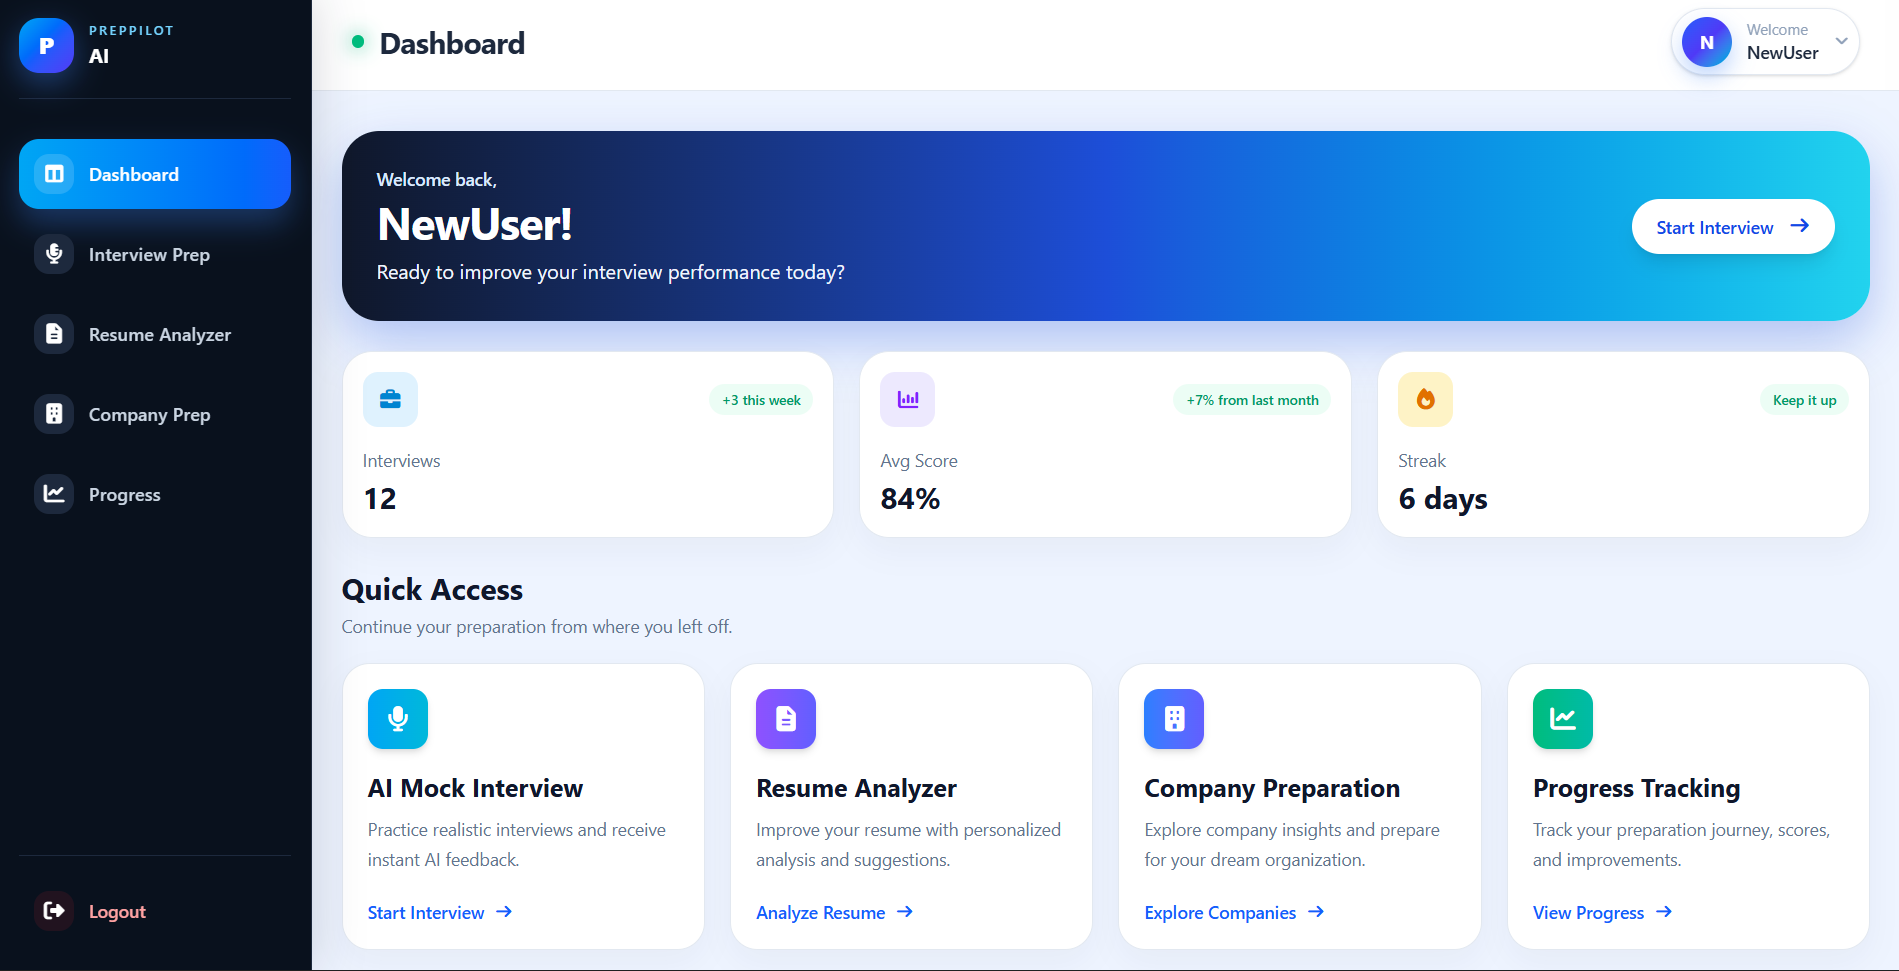
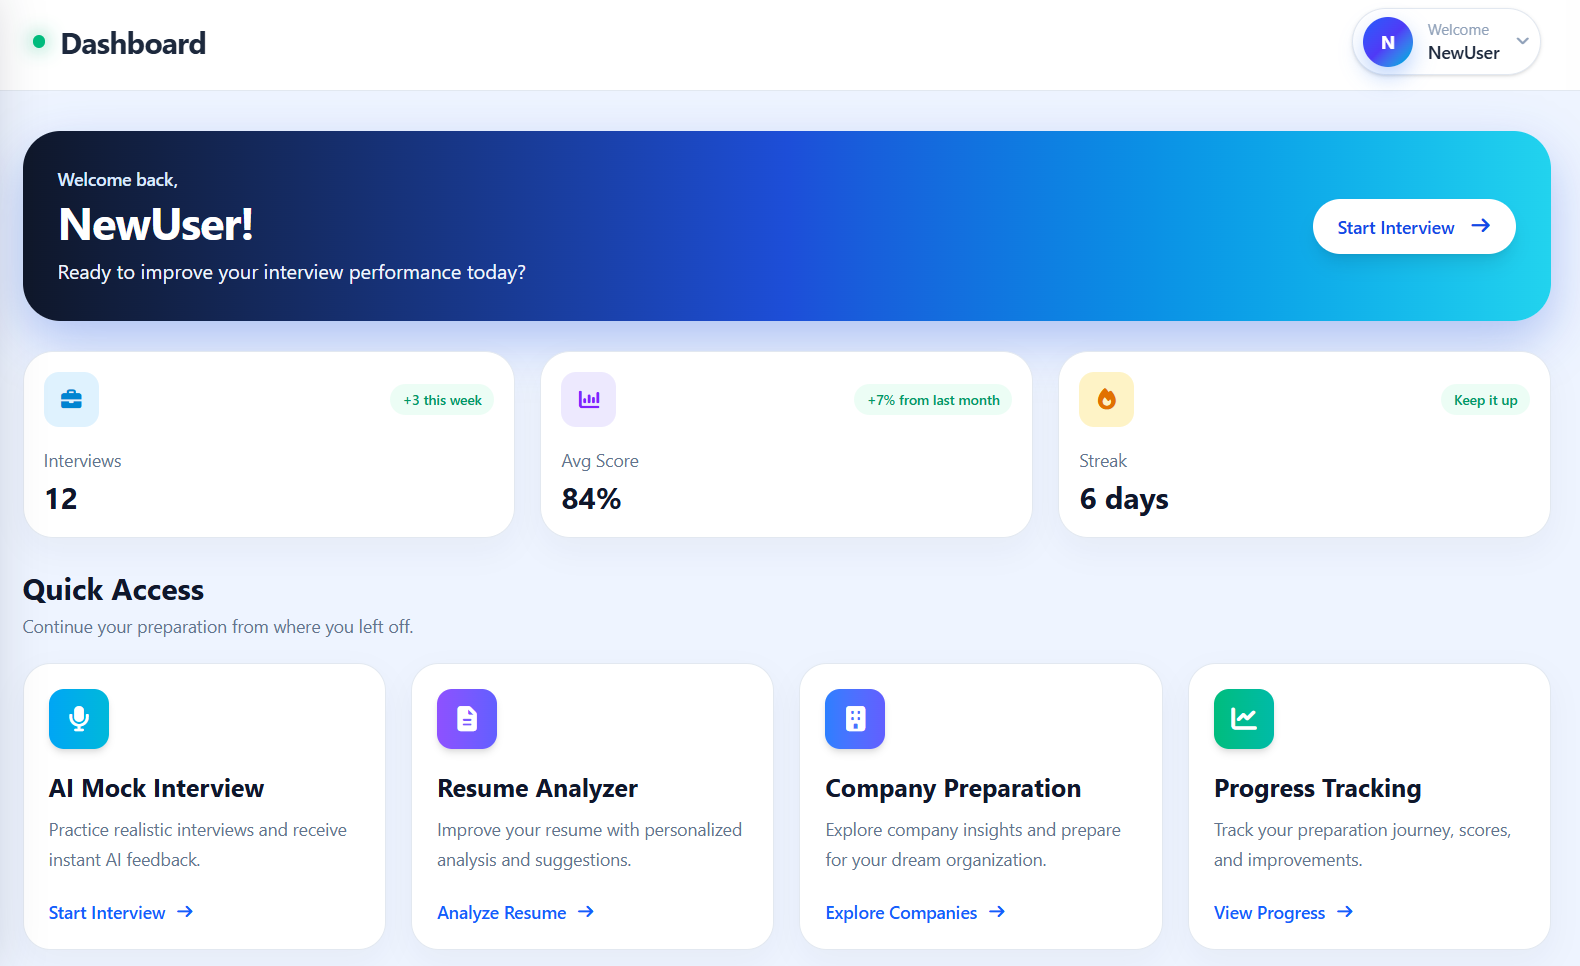
Finalize UI and dashboard improvements

diff --git a/frontend/src/components/Dashboard.jsx b/frontend/src/components/Dashboard.jsx
@@ -36,29 +36,6 @@ const quickAccessItems = [
   },
 ];
 
-const statCards = [
-  {
-    label: "Interviews",
-    value: "12",
-    trend: "+3 this week",
-    icon: "fa-solid fa-briefcase",
-    color: "bg-sky-100 text-sky-600",
-  },
-  {
-    label: "Avg Score",
-    value: "84%",
-    trend: "+7% from last month",
-    icon: "fa-solid fa-chart-column",
-    color: "bg-violet-100 text-violet-600",
-  },
-  {
-    label: "Streak",
-    value: "6 days",
-    trend: "Keep it up",
-    icon: "fa-solid fa-fire",
-    color: "bg-amber-100 text-amber-600",
-  },
-];
 
 const getInterviewType = (interview) => {
   const type = interview.interviewType || interview.type || "Technical";
@@ -213,6 +190,30 @@ const Dashboard = () => {
 
     fetchInterviews();
   }, []);
+
+  const statCards = [
+  {
+    label: "Interviews",
+    value: `${interviews.length}`,
+    trend: `${interviews.length > 0 ? `${interviews.filter(isCompleted).length} completed` : "No interviews yet"}`,
+    icon: "fa-solid fa-briefcase",
+    color: "bg-sky-100 text-sky-600",
+  },
+  {
+    label: "Avg Score",
+    value: `${interviews.length > 0 ? `${Math.round(interviews.reduce((sum, interview) => sum + (interview.evaluation?.overallScore || 0), 0) / interviews.length)}%` : "N/A"}`,
+    trend: `${interviews.length > 0 ? "Keep improving" : "Start your first interview!"}`,
+    icon: "fa-solid fa-chart-column",
+    color: "bg-violet-100 text-violet-600",
+  },
+  {
+    label: "Streak",
+    value: `${interviews.length > 0 ? `${interviews.filter(isCompleted).length} days` : "0 days"}`,
+    trend: `${interviews.length > 0 ? "Keep it up" : "Start your streak!"}`,
+    icon: "fa-solid fa-fire",
+    color: "bg-amber-100 text-amber-600",
+  },
+];
 
   useEffect(() => {
     const fetchUserData = async () => {

diff --git a/frontend/src/components/HeroSection.jsx b/frontend/src/components/HeroSection.jsx
@@ -1,6 +1,5 @@
 import React from "react";
 
-
 const HeroSection = () => {
   return (
     <section className="relative overflow-hidden bg-gradient-to-br from-[#f8fbff] via-white to-[#eef2ff] py-20 lg:py-28">
@@ -61,8 +60,19 @@ const HeroSection = () => {
           </div>
         </div>
 
-        <div className="w-full">
-          <img className="rounded-4xl border-1" src="images/image.png" alt="" />
+        <div className="relative mx-auto w-full max-w-[740px]">
+          <div className="absolute -left-6 top-10 h-28 w-28 rounded-full bg-[#7C3AED]/10 blur-3xl" />
+          <div className="absolute -right-4 bottom-6 h-32 w-32 rounded-full bg-[#2563EB]/10 blur-3xl" />
+
+          <div className="relative overflow-hidden rounded-[2rem] border border-slate-200 bg-white p-3 shadow-[0_30px_80px_rgba(15,23,42,0.12)]">
+            <div className="overflow-hidden rounded-[1.5rem] border border-slate-200 bg-slate-100 p-2">
+              <img
+                className="h-[300px] w-[740px] rounded-[1.2rem] "
+                src="images/image.png"
+                alt="PrepPilot AI interview preparation dashboard preview"
+              />
+            </div>
+          </div>
         </div>
       </div>
     </section>
